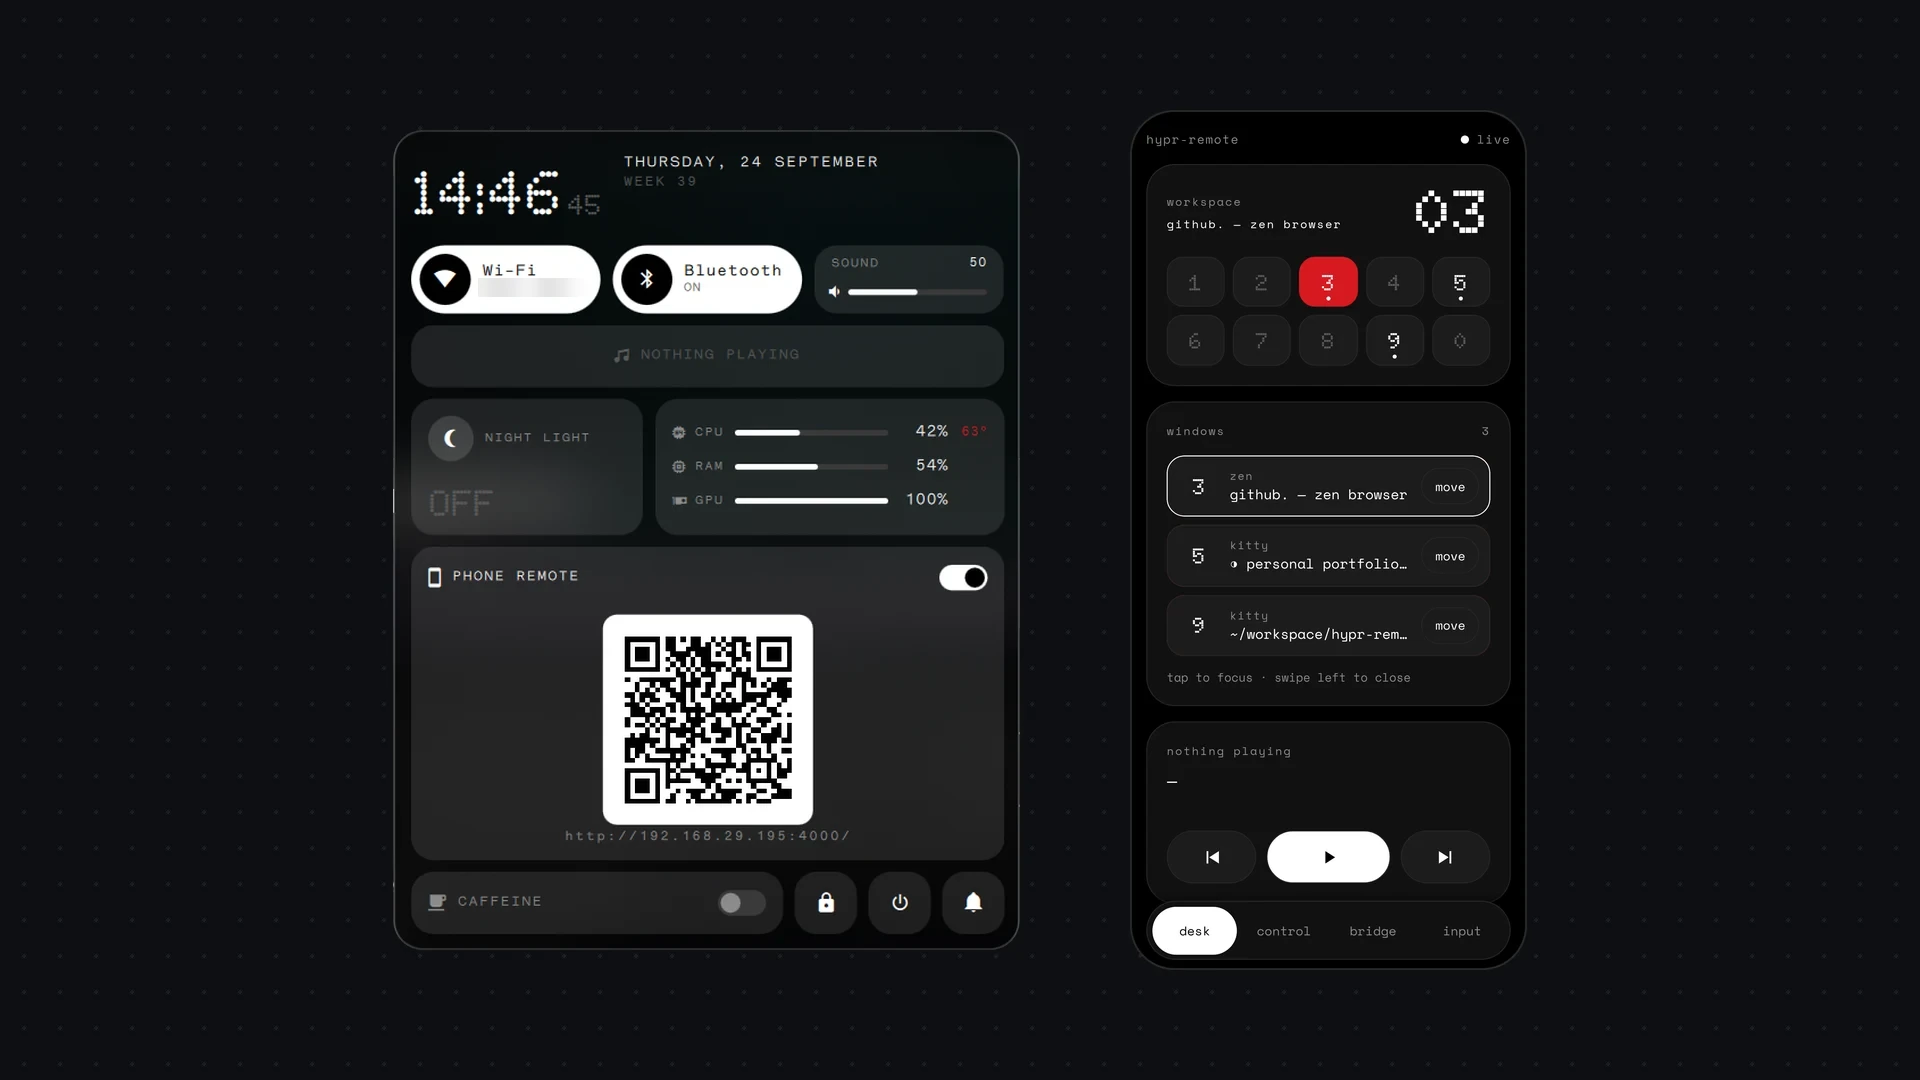
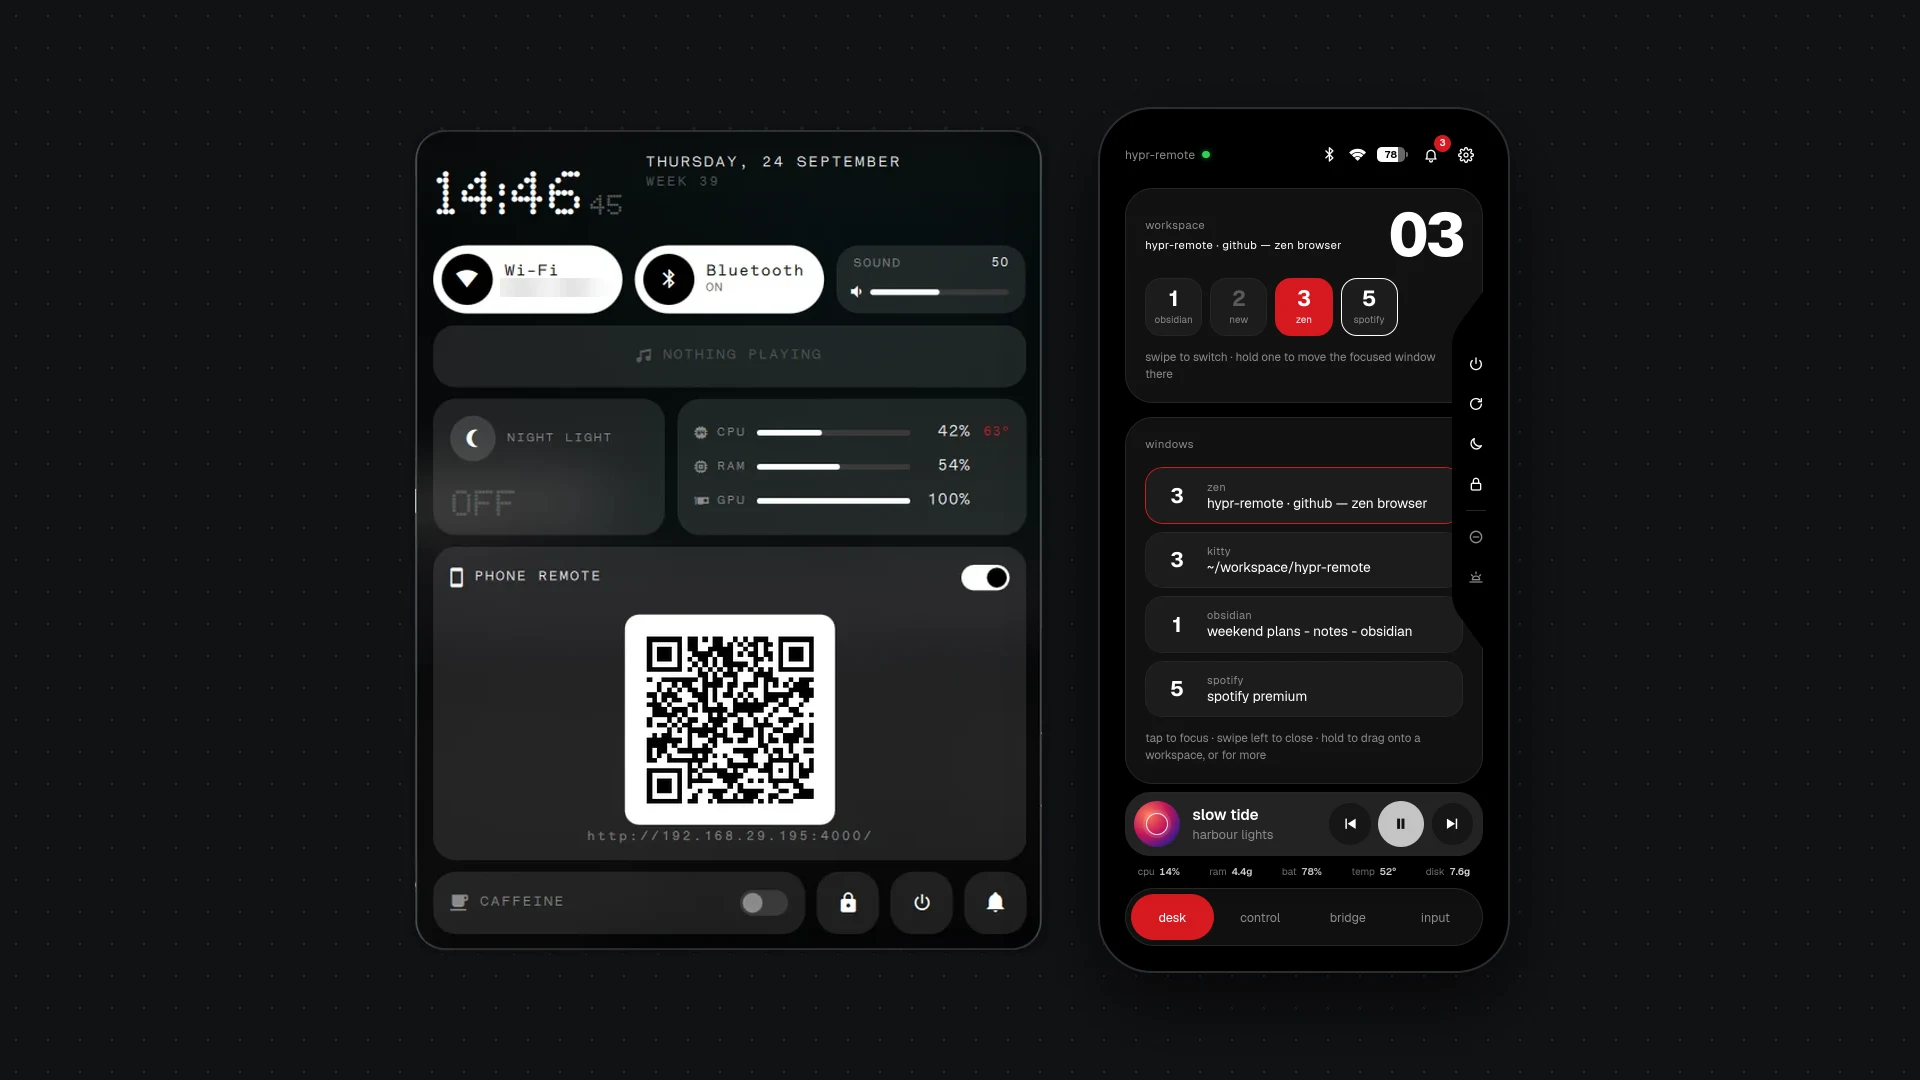
Show the new design in the README screenshots
The four tabs are redone with the header, dock and mini player, and a
new image shows the notifications list, the full player and settings.
The pairing image gets the new desk tab. The bridge and input image goes,
since both tabs are in the first one. Everything on screen is made up.

diff --git a/README.md b/README.md
@@ -61,6 +61,8 @@ hide it; that's remembered on the phone too.
 
 ![The four tabs: desk, control, bridge and input](docs/tabs.webp)
 
+![The notifications list, the full player, and the general and desk tabs of settings](docs/settings.webp)
+
 ## Run
 
 ```bash
@@ -102,8 +104,6 @@ bun run install-service   # adds a ydotoold user service
 
 The udev rule lets every member of the `input` group create virtual input
 devices, which means any program running as your user can inject keystrokes.
-
-![The bridge tab with a live screen preview and system stats, and the input tab with the touchpad and keyboard](docs/bridge-input.webp)
 
 ### Brightness of external screens
 
